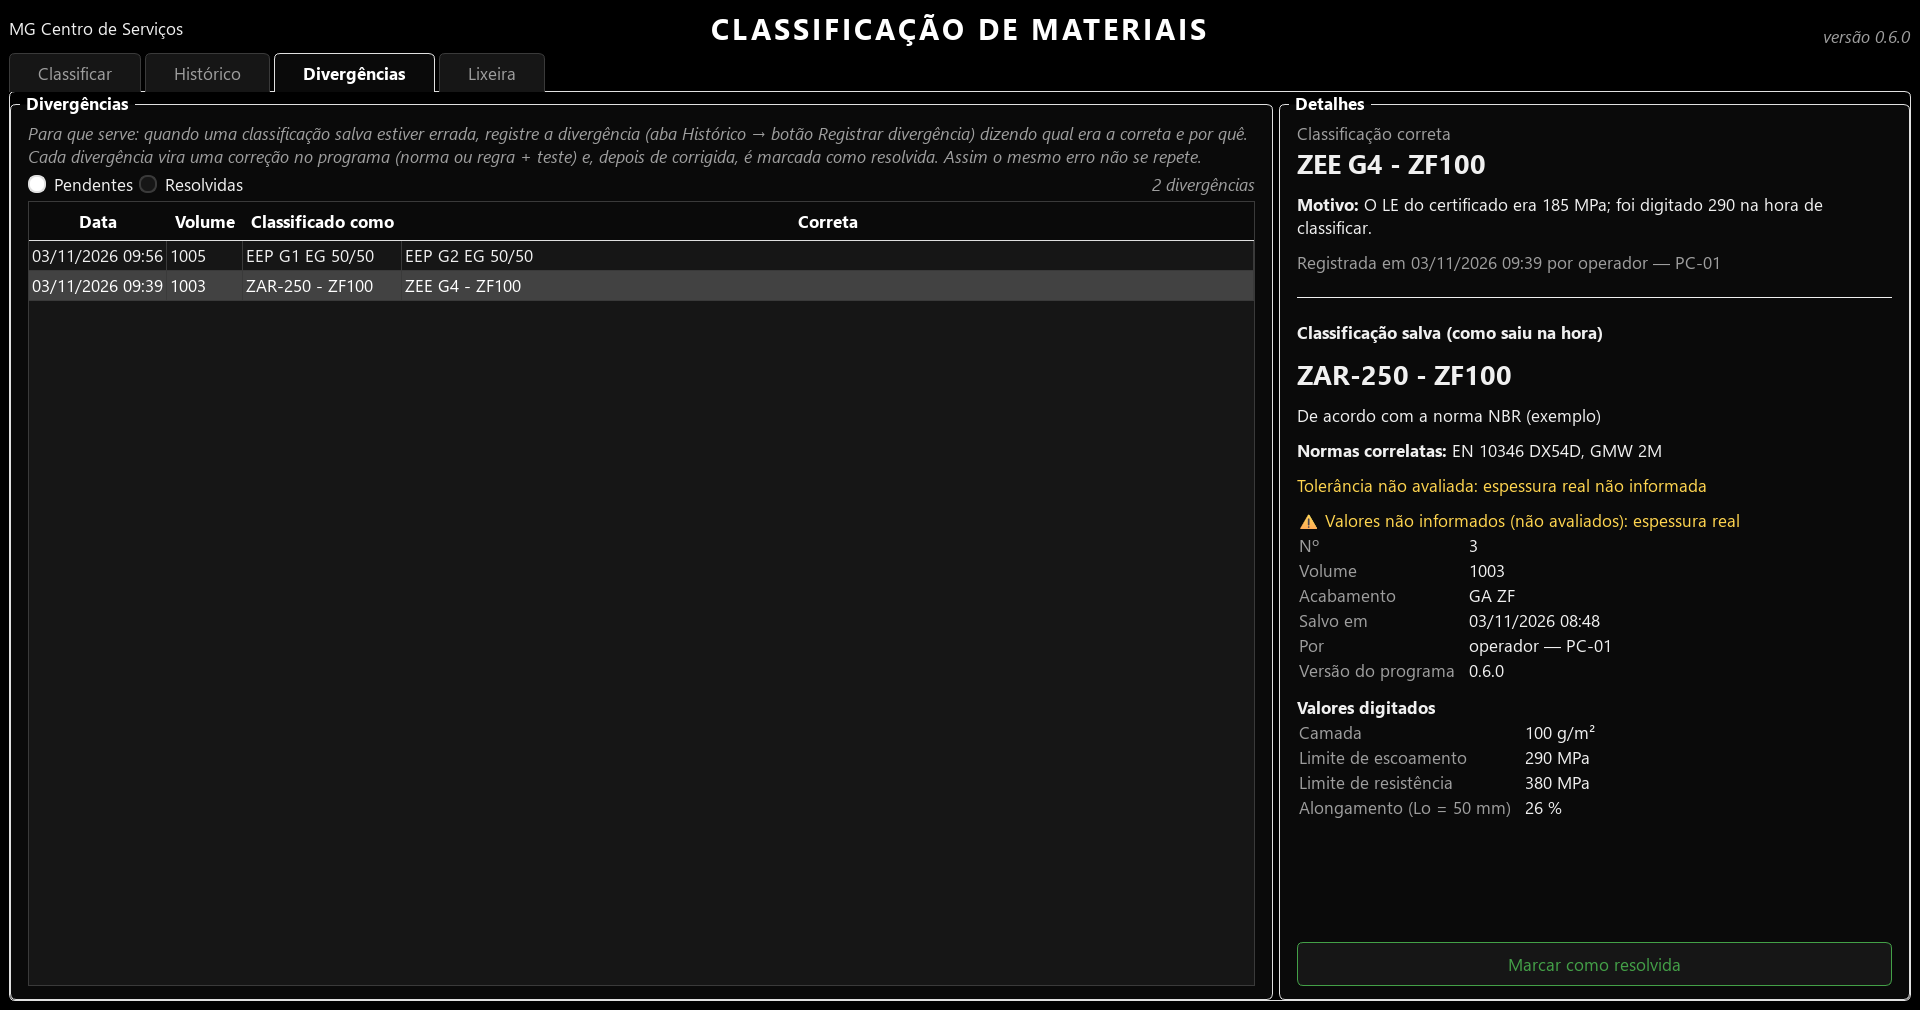
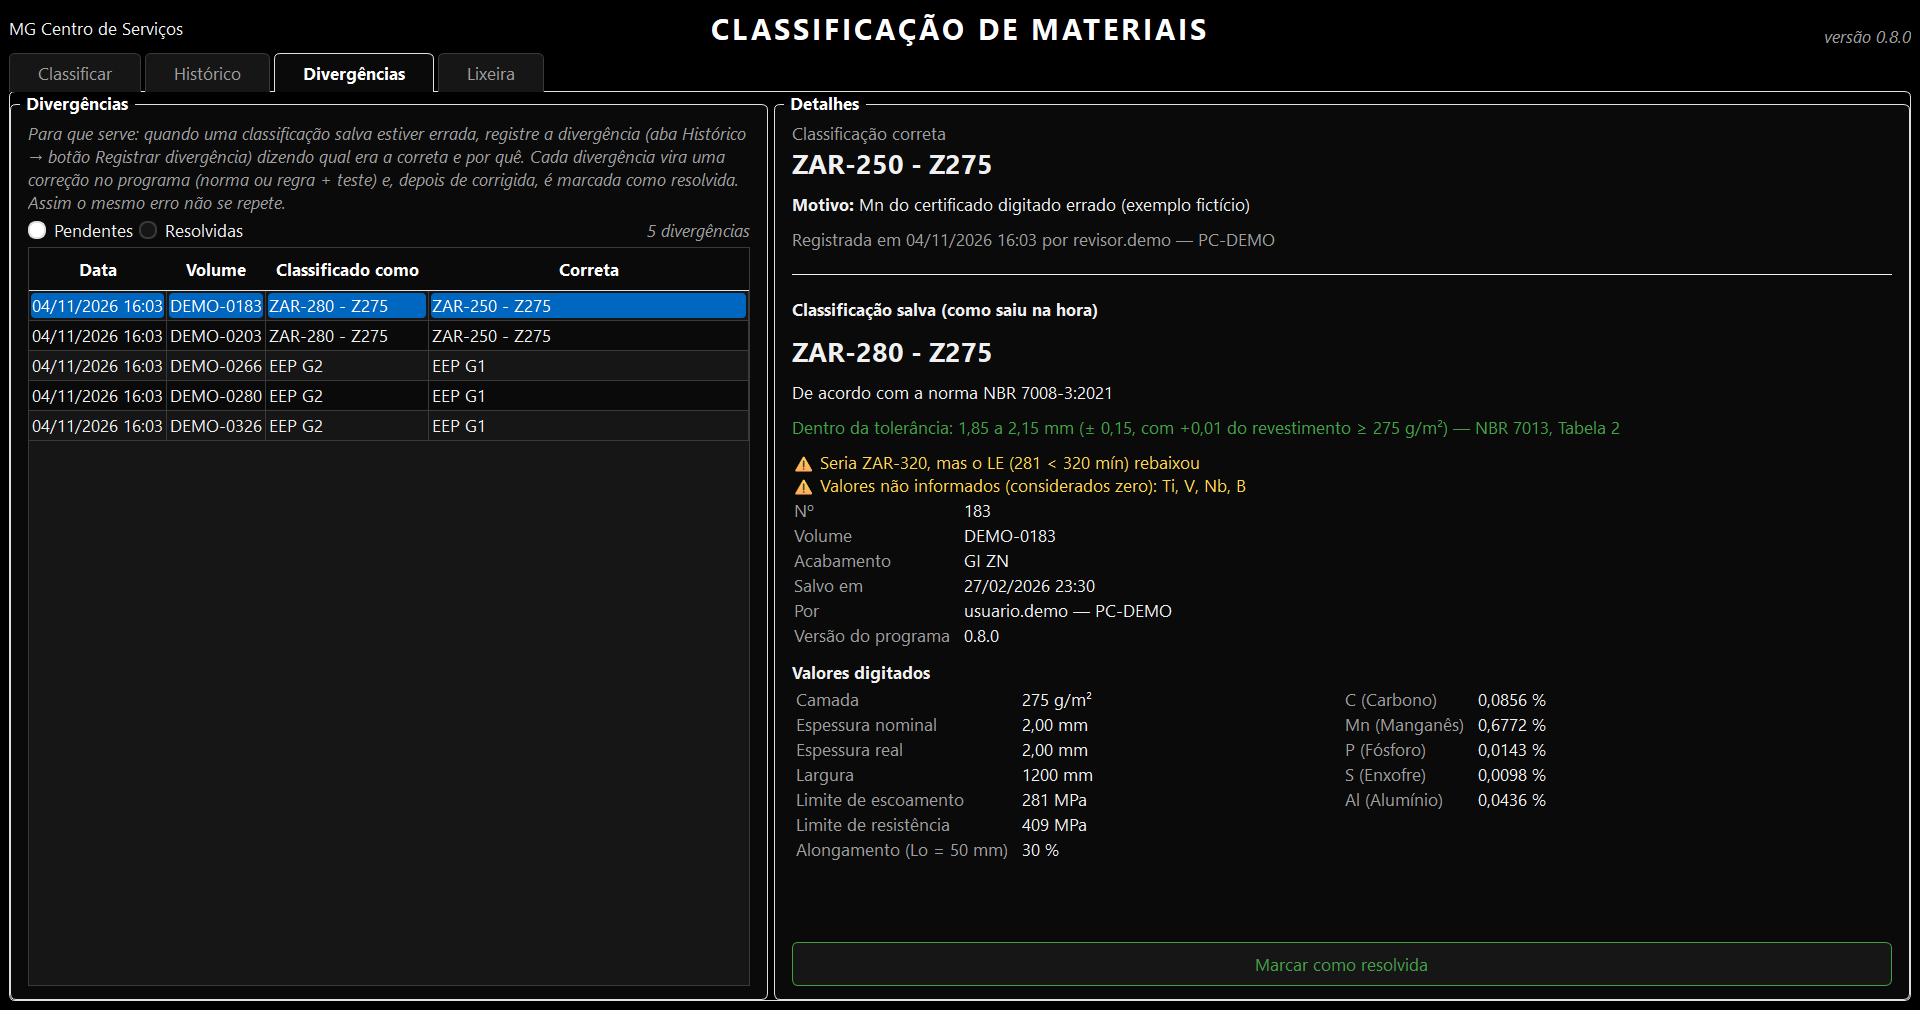
Equilibra as abas Histórico, Lixeira e Divergências (lista 2/5 | detalhes 3/5)
A coluna do resultado/correta ficava larga demais e os detalhes
precisavam de rolagem (pedido do usuário). Valores digitados em duas
colunas (espessuras e mecânicas | químicos); fotos do README refeitas
com dados fictícios.

diff --git a/src/classificador/interface/abas_historico.py b/src/classificador/interface/abas_historico.py
@@ -1,4 +1,4 @@
-"""Abas Histórico e Lixeira: lista de classificações salvas (2/3) | detalhes do registro (1/3).
+"""Abas Histórico e Lixeira: lista de classificações salvas (2/5) | detalhes do registro (3/5).
 
 As duas abas têm o mesmo desenho; muda só o que os botões fazem:
 - Histórico: pesquisar, **Registrar divergência** e **Excluir** (manda para a Lixeira).
@@ -36,6 +36,7 @@ from classificador.historico.repositorio import (
 from classificador.interface.componentes import confirmar
 
 COLUNAS = ["Data/hora", "Volume", "Resultado"]
+PROPORCAO_LISTA, PROPORCAO_DETALHES = 2, 3  # lista 2/5 | detalhes 3/5
 
 # Campos que não são propriedades da norma: nome na tela e unidade.
 _OUTROS_CAMPOS = {
@@ -116,8 +117,10 @@ class PainelRegistros(QWidget):
 
         faixa = QHBoxLayout(self)
         faixa.setContentsMargins(0, 0, 0, 0)
-        faixa.addWidget(lista, 2)
-        faixa.addWidget(detalhes, 1)
+        # Lista 2/5 | detalhes 3/5 (usuário, 2026-11-04): a lista só tem colunas curtas e os
+        # detalhes têm muita informação — antes (2/3 | 1/3) precisavam de rolagem.
+        faixa.addWidget(lista, PROPORCAO_LISTA)
+        faixa.addWidget(detalhes, PROPORCAO_DETALHES)
         self.atualizar()
 
     # --- Lista ------------------------------------------------------------------------
@@ -307,8 +310,22 @@ def detalhes_html(r: Registro) -> str:
     partes.append(_tabela(linhas))
     valores = valores_digitados(r.valores)
     if valores:
-        partes.append("<p><b>Valores digitados</b></p>" + _tabela(valores))
+        # Duas colunas (espessuras e mecânicas | químicos): metade da altura, sem rolagem.
+        quimicos = {_rotulo_quimico(p) for p in Propriedade.quimicas()}
+        esquerda = [linha for linha in valores if linha[0] not in quimicos]
+        direita = [linha for linha in valores if linha[0] in quimicos]
+        partes.append(
+            "<p><b>Valores digitados</b></p>"
+            '<table width="100%"><tr>'
+            f'<td valign="top" width="50%">{_tabela(esquerda)}</td>'
+            f'<td valign="top" width="50%">{_tabela(direita)}</td>'
+            "</tr></table>"
+        )
     return "".join(partes)
+
+
+def _rotulo_quimico(prop: Propriedade) -> str:
+    return f"{prop.value} ({prop.nome_extenso})"
 
 
 def valores_digitados(valores) -> list[tuple[str, str]]:
@@ -325,7 +342,7 @@ def valores_digitados(valores) -> list[tuple[str, str]]:
             prop = Propriedade(nome)
             rotulo, unidade = prop.nome_extenso, prop.unidade
             if prop in Propriedade.quimicas():
-                rotulo = f"{prop.value} ({prop.nome_extenso})"
+                rotulo = _rotulo_quimico(prop)
         linhas.append((rotulo, f"{texto} {unidade}"))
     return linhas
 

diff --git a/src/classificador/interface/abas_divergencias.py b/src/classificador/interface/abas_divergencias.py
@@ -34,6 +34,8 @@ from classificador.historico.repositorio import (
     RepositorioHistorico,
 )
 from classificador.interface.abas_historico import (
+    PROPORCAO_DETALHES,
+    PROPORCAO_LISTA,
     detalhes_html,
     mostrar_situacao,
     nova_tabela,
@@ -115,7 +117,7 @@ class DialogoDivergencia(QDialog):
 
 
 class PainelDivergencias(QWidget):
-    """Lista de divergências (2/3) | detalhes com o registro completo (1/3)."""
+    """Lista de divergências (2/5) | detalhes com o registro completo (3/5)."""
 
     mudou = Signal()  # uma divergência foi resolvida: o Histórico deve se atualizar
 
@@ -168,8 +170,8 @@ class PainelDivergencias(QWidget):
 
         faixa = QHBoxLayout(self)
         faixa.setContentsMargins(0, 0, 0, 0)
-        faixa.addWidget(lista, 2)
-        faixa.addWidget(detalhes, 1)
+        faixa.addWidget(lista, PROPORCAO_LISTA)  # 2/5 | 3/5, igual ao Histórico
+        faixa.addWidget(detalhes, PROPORCAO_DETALHES)
         self.atualizar()
 
     def atualizar(self) -> None:

diff --git a/CLAUDE.md b/CLAUDE.md
@@ -58,8 +58,8 @@
 - **Fase 6 — plano (etapas):** 1) banco + repositório ✅; 2) Volume + Salvar na tela ✅;
   3) abas Classificar | Histórico | Divergências | Lixeira — Histórico com pesquisa por texto livre,
   excluir; Lixeira com restaurar / excluir permanentemente ✅ (`interface/abas_historico.py`,
-  `PainelRegistros` usado nas duas abas; decisões do usuário em 2026-11-04: **lista 2/3 | detalhes
-  1/3**, colunas só **Data/hora, Volume, Resultado**, **confirmação nas duas exclusões**; abrir a
+  `PainelRegistros` usado nas duas abas; decisões do usuário em 2026-11-04: **lista 2/5 | detalhes
+  3/5** (era 2/3 | 1/3; usuário pediu equilibrar em 2026-11-04 — coluna do resultado larga demais e detalhes com rolagem; valores digitados em 2 colunas), colunas só **Data/hora, Volume, Resultado**, **confirmação nas duas exclusões**; abrir a
   aba relê o banco; sem histórico só a aba Classificar fica ativa; botões **Excluir** com contorno e letra
   **vermelhos**, **Restaurar** com contorno **verde** — escolha do usuário); 4) aba Divergências (registrar no
   Histórico: correta + motivo; lista de pendentes; marcar resolvida) ✅ (`interface/abas_divergencias.py`: janela própria

diff --git a/docs/decisoes/0010-historico-lixeira-e-divergencias.md b/docs/decisoes/0010-historico-lixeira-e-divergencias.md
@@ -45,7 +45,7 @@ na outra; o `busy_timeout` e as transações curtas dão conta.
 - Registro salvo **não é editável**. Se estava errado, registra-se uma divergência.
 
 ## Decisão — abas Classificar | Histórico | Divergências | Lixeira
-- Histórico e Lixeira usam a mesma peça (`PainelRegistros`): **lista (2/3) | detalhes (1/3)**.
+- Histórico e Lixeira usam a mesma peça (`PainelRegistros`): **lista (2/5) | detalhes (3/5)** (era 2/3 | 1/3 até a Fase 8: a coluna do resultado ficava larga demais e os detalhes precisavam de rolagem). Os valores digitados aparecem em duas colunas (espessuras e mecânicas | químicos).
   A lista mostra **Data/hora, Volume e Resultado**; os detalhes mostram o registro completo, com
   cores (tolerância verde/vermelho/amarelo, avisos em amarelo).
 - **Pesquisa por texto livre**: cada palavra tem de aparecer em algum campo do registro, sem
